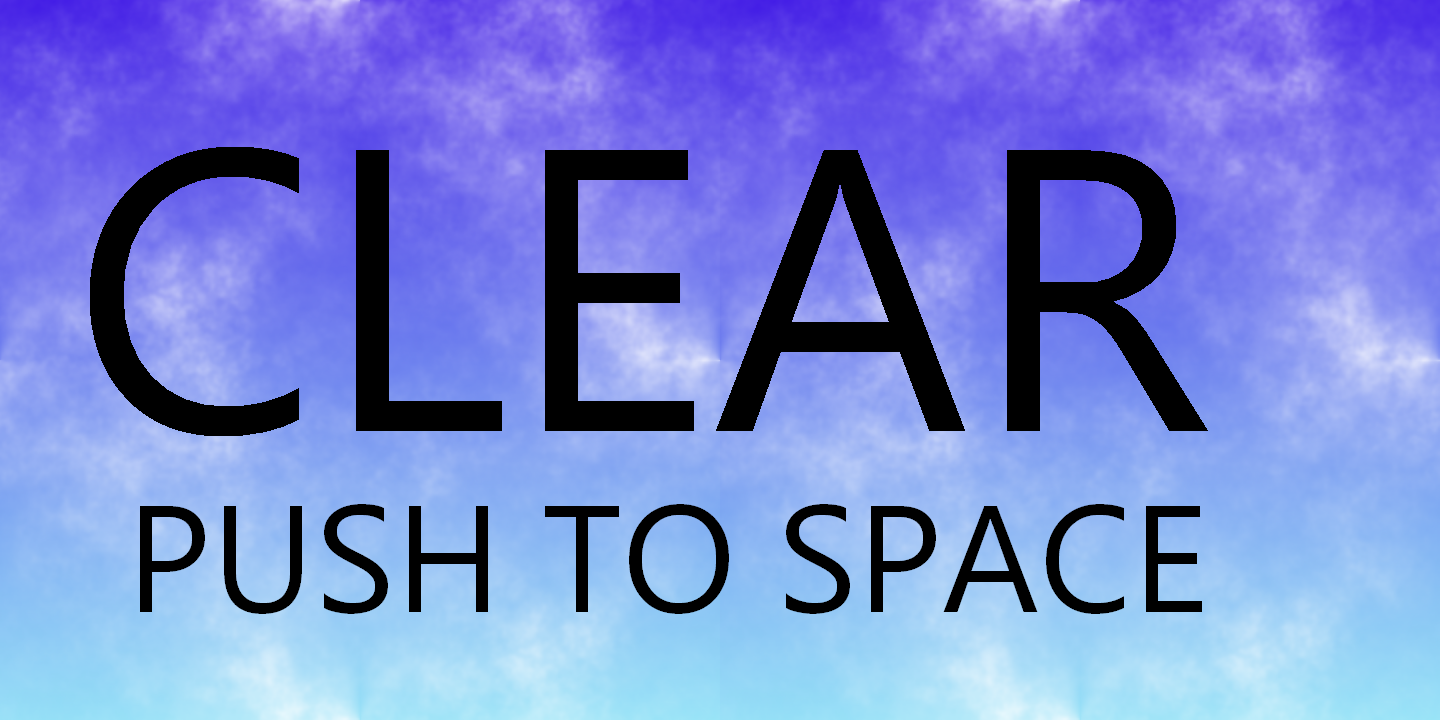
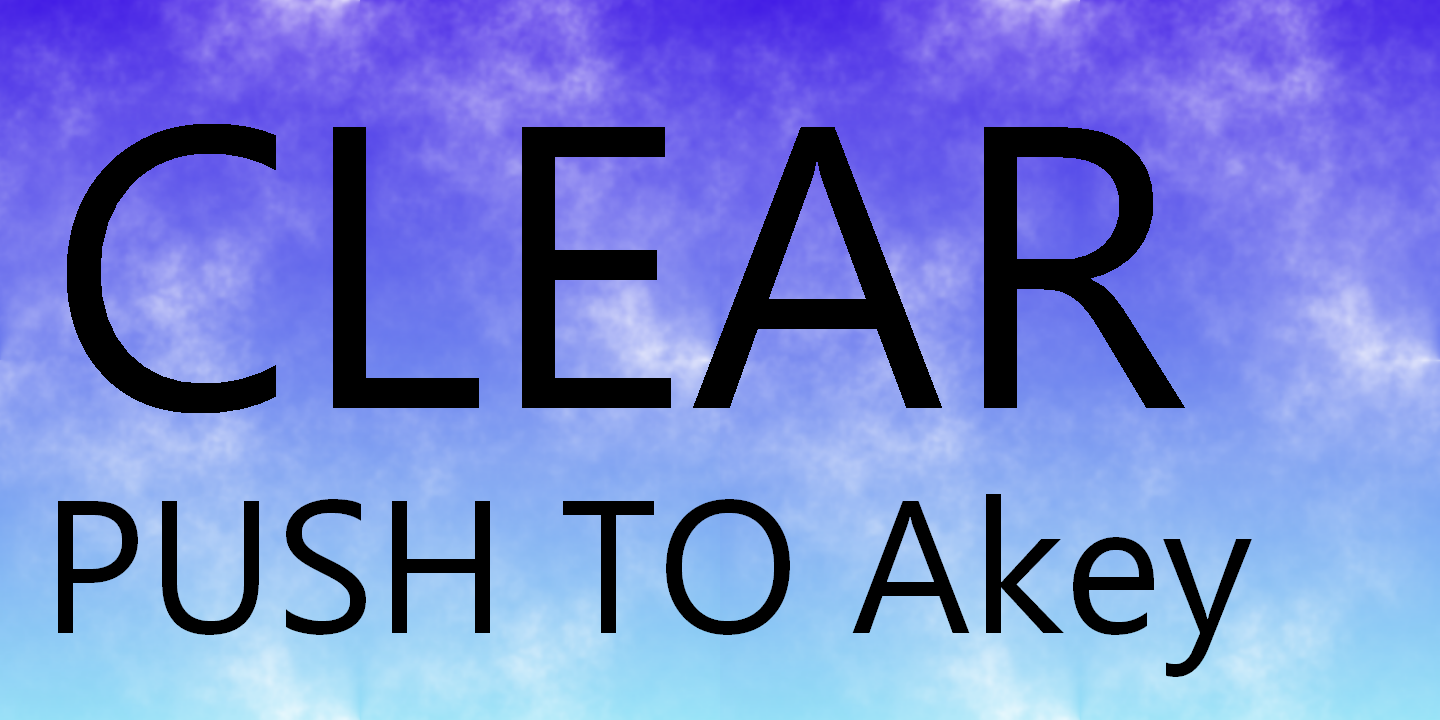
teisyutu

diff --git a/DirectXGame/TitleScene.cpp b/DirectXGame/TitleScene.cpp
@@ -1,4 +1,5 @@
 #include "TitleScene.h"
+#include <TextureManager.h>
 
 TitleScene::TitleScene() { 
 	
@@ -14,7 +15,7 @@ TitleScene::~TitleScene() {
 void TitleScene::Initialize() { 
 	dxCommon_ = DirectXCommon::GetInstance();
 	model_ = Model::CreateFromOBJ("Title", true);
-	 
+	
 
 
 	//assert(model_);
@@ -25,8 +26,9 @@ void TitleScene::Initialize() {
 	skyModel_->Model::CreateFromOBJ("skydome", true);
 	skydome_->Initialize(skyModel_,&viewProjection_);
 
-	
-	
+	spriteTitle_ = new Sprite();
+	textureHandleTitle_ = TextureManager::Load("Title.png");
+	spriteTitle_ = Sprite::Create(textureHandleTitle_, {0, 0});
 }
 
 void TitleScene::Update() {
@@ -43,7 +45,14 @@ void TitleScene::Update() {
 void TitleScene::Draw() {
 	// コマンドリストの取得
 	ID3D12GraphicsCommandList* commandList = dxCommon_->GetCommandList();
+	Sprite::PreDraw(commandList);
+	spriteTitle_->Draw();
+	// スプライト描画後処理
+	Sprite::PostDraw();
+	// 深度バッファクリア
+	dxCommon_->ClearDepthBuffer();
 	Model::PreDraw(commandList);
+	
 	model_->Draw(worldTransform_, viewProjection_);
 	Model::PostDraw();
 }

diff --git a/DirectXGame/DeathParticles.h b/DirectXGame/DeathParticles.h
@@ -17,6 +17,9 @@ public:
 	void Draw();
 	bool IsFinished() const { return isFinished_; }
 
+	bool Finish(bool finish);
+
+
 private:
 	Model* deathModel_ = nullptr;
 	ViewProjection* viewProjection_ = nullptr;

diff --git a/DirectXGame/scene/GameScene.cpp b/DirectXGame/scene/GameScene.cpp
@@ -239,7 +239,7 @@ void GameScene::Update() {
 		}
 		break;
 	case Phase::kClear:
-		if (input_->PushKey(input_->TriggerKey(DIK_SPACE))) {
+		if (input_->TriggerKey(DIK_A)) {
 			finished_ = true;
 		}
 

diff --git a/DirectXGame/scene/GameScene.h b/DirectXGame/scene/GameScene.h
@@ -109,6 +109,7 @@ private: // メンバ変数
 	uint32_t textureHandleCLEAR_ = 0;
 	uint32_t textureHandlePlay_ = 0;
 	
+	bool finish = false;
 	/// <summary>
 	/// ゲームシーン用
 	/// </summary>

diff --git a/DirectXGame/DeathParticles.cpp b/DirectXGame/DeathParticles.cpp
@@ -60,3 +60,5 @@ void DeathParticles::Draw() {
 		deathModel_->Draw(worldTransform, *viewProjection_, &objectColor_);
 	}
 }
+
+
